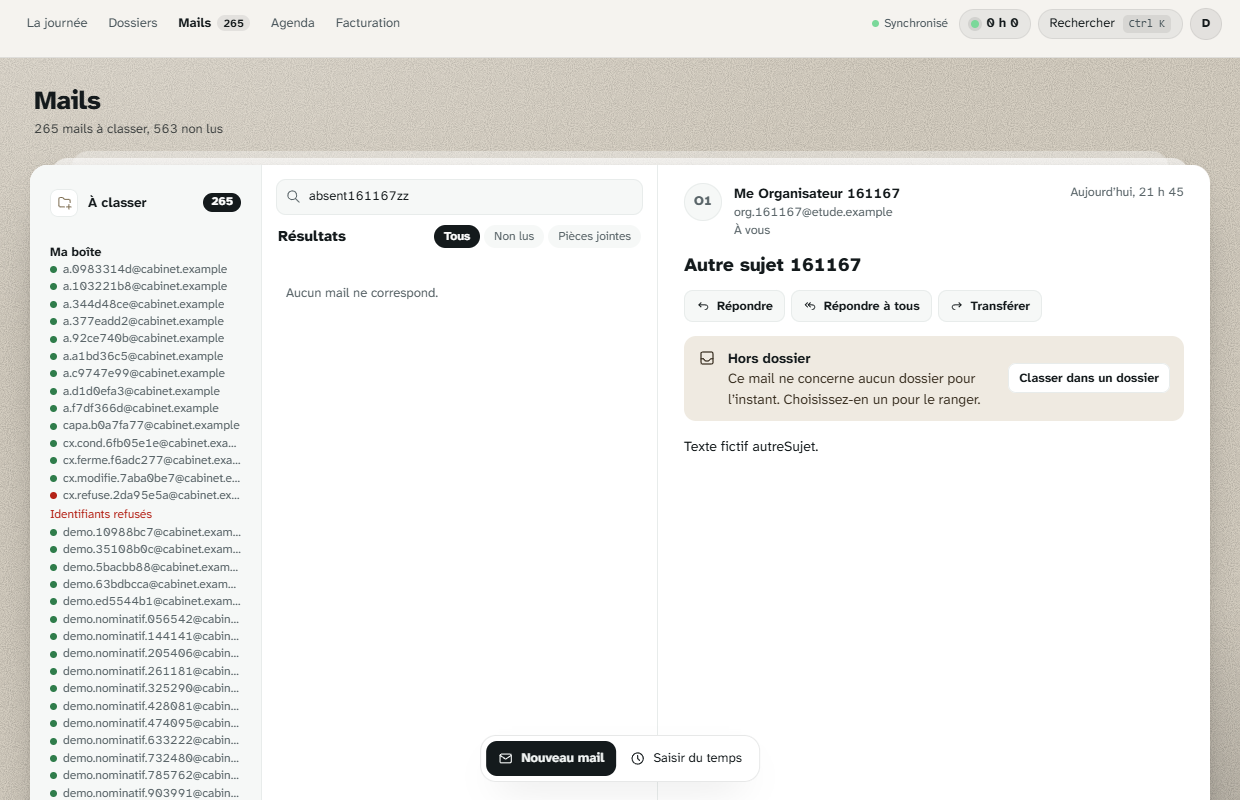
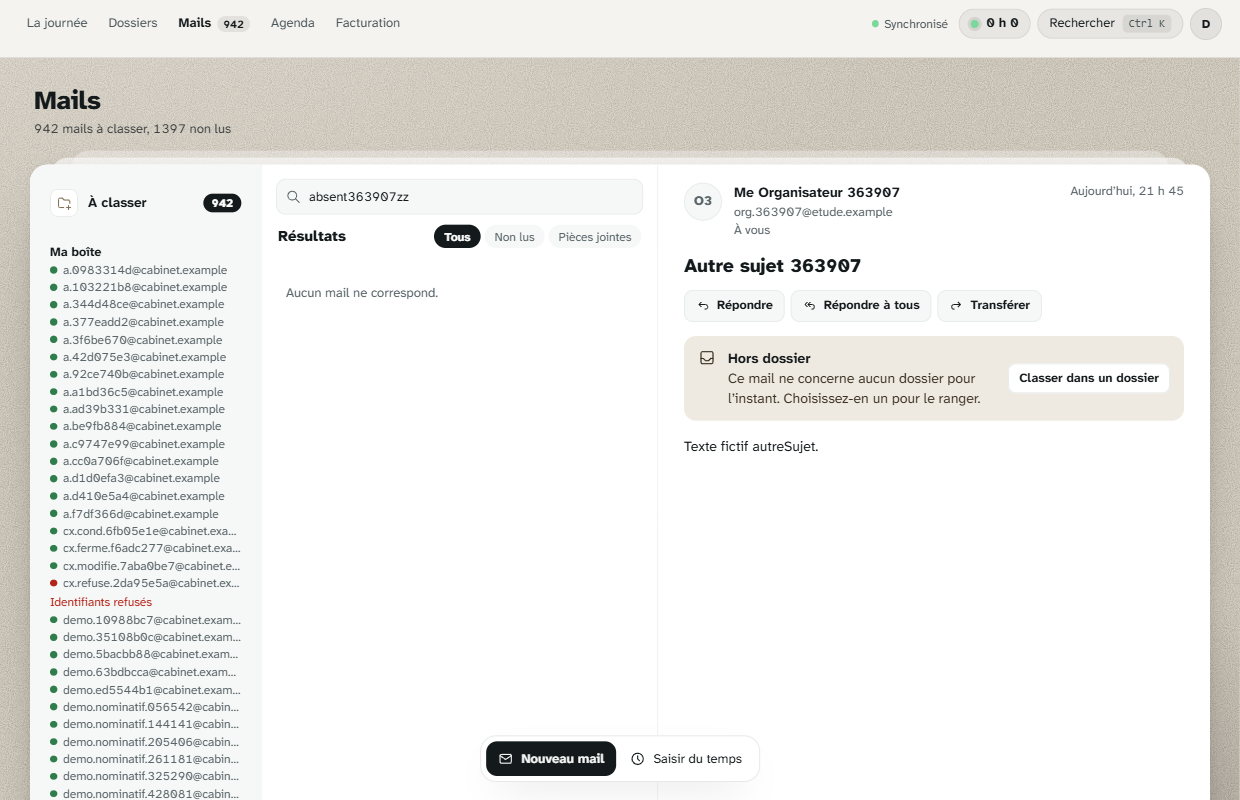
poste: J11 (ii) date d'en-tête affichée et utilisée pour le tri du chrono
- date_entete déclarée dans le schéma local ; lue par la liste, triée par COALESCE(date_entete, cree_le)
- dateDuMail : tri, groupes par jour, liste, lecture, citation de réponse et complétion ; la date d'arrivée reste distincte
- tests node:test (repli, tri d'un vieux courrier relevé à l'instant, groupes) ; recette j11-mails-ecran étendue avec essais négatifs

diff --git a/apps/poste/src/messagerie/listeMails.test.ts b/apps/poste/src/messagerie/listeMails.test.ts
@@ -2,6 +2,7 @@ import assert from "node:assert/strict";
 import { describe, it } from "node:test";
 import {
   apercuMail,
+  dateDuMail,
   ecartEnJours,
   extensionPiece,
   filtrerMails,
@@ -172,5 +173,33 @@ describe("filtres, pièces et aperçu", () => {
   it("paragraphes séparés par une ligne vide", () => {
     assert.deepEqual(paragraphes("Maître,\r\n\r\nPremier.\n\n\n\nSecond.\nSuite."), ["Maître,", "Premier.", "Second.\nSuite."]);
     assert.deepEqual(paragraphes("   "), []);
+  });
+});
+
+describe("date d'en-tête et date d'arrivée", () => {
+  it("la date d'en-tête prime, la date d'arrivée sert de repli", () => {
+    assert.equal(dateDuMail({ date_entete: "2026-10-01 08:00:00+00", cree_le: "2026-10-09 07:00:00+00" }), "2026-10-01 08:00:00+00");
+    assert.equal(dateDuMail({ date_entete: null, cree_le: "2026-10-09 07:00:00+00" }), "2026-10-09 07:00:00+00");
+    assert.equal(dateDuMail({ date_entete: "  ", cree_le: "2026-10-09 07:00:00+00" }), "2026-10-09 07:00:00+00");
+    assert.equal(dateDuMail({}), null);
+  });
+
+  it("le tri suit la date d'en-tête, pas l'ordre d'arrivée (relève d'un ancien courrier)", () => {
+    // Arrivé aujourd'hui sur le serveur, mais écrit il y a trois semaines.
+    const ancien = mail("ancien", "2026-10-09 07:00:00+00", { date_entete: "2026-09-18 09:00:00+00" });
+    const recent = mail("recent", "2026-10-08 07:00:00+00", { date_entete: "2026-10-08 06:30:00+00" });
+    const sansEntete = mail("sans", "2026-10-02 07:00:00+00");
+    assert.deepEqual(
+      trierParDate([ancien, sansEntete, recent]).map((m) => m.id),
+      ["recent", "sans", "ancien"],
+    );
+  });
+
+  it("les groupes par jour suivent la date d'en-tête ; la date d'arrivée reste intacte", () => {
+    const ancien = mail("ancien", "2026-10-09 07:00:00+00", { date_entete: "2026-08-14 09:00:00+00" });
+    const groupes = groupesParJour([ancien], MAINTENANT);
+    assert.equal(groupes.length, 1);
+    assert.notEqual(groupes[0]?.cle, "aujourdhui");
+    assert.equal(groupes[0]?.mails[0]?.cree_le, "2026-10-09 07:00:00+00");
   });
 });

diff --git a/apps/poste/src/messagerie/listeMails.ts b/apps/poste/src/messagerie/listeMails.ts
@@ -35,6 +35,12 @@ export function normaliserHorodatage(valeur: string): string {
   return `${date}T${heure}${signe}${hh}:${mm}`;
 }
 
+/** Date d'un mail à l'écran et pour le tri : celle de son en-tête, à défaut sa date d'arrivée. */
+export function dateDuMail(mail: Pick<MailLocal, "date_entete" | "cree_le">): string | null {
+  const entete = mail.date_entete?.trim();
+  return entete !== undefined && entete !== "" ? entete : (mail.cree_le ?? null);
+}
+
 /** Jour et heure murale (Europe/Paris) d'un horodatage de mail ; `null` s'il est illisible. */
 export function muralMail(valeur: string | null | undefined): MurMail | null {
   if (valeur === null || valeur === undefined) return null;
@@ -53,7 +59,7 @@ function rangMail(valeur: string | null | undefined): number {
 /** Du plus récent au plus ancien ; à égalité, l'ordre d'origine est conservé. */
 export function trierParDate(mails: readonly MailLocal[]): MailLocal[] {
   return mails
-    .map((mail, index) => ({ mail, index, rang: rangMail(mail.cree_le) }))
+    .map((mail, index) => ({ mail, index, rang: rangMail(dateDuMail(mail)) }))
     .sort((a, b) => b.rang - a.rang || a.index - b.index)
     .map((entree) => entree.mail);
 }
@@ -107,7 +113,7 @@ export function groupesParJour(mails: readonly MailLocal[], maintenant: Date): G
   const aujourdhui = jourParis(maintenant);
   const groupes: GroupeJour[] = [];
   for (const mail of trierParDate(mails)) {
-    const mur = muralMail(mail.cree_le);
+    const mur = muralMail(dateDuMail(mail));
     const { cle, titre } = mur === null ? { cle: "sans-date", titre: "Sans date" } : groupeDe(mur.jour, aujourdhui);
     const dernier = groupes[groupes.length - 1];
     if (dernier?.cle === cle) {

diff --git a/apps/poste/src/messagerie/completion.ts b/apps/poste/src/messagerie/completion.ts
@@ -1,5 +1,6 @@
 import { adresseValide, type Destinataire } from "@/messagerie/adressesRedaction";
 import { analyserCorrespondant, separerDestinataires } from "@/messagerie/expediteurs";
+import { dateDuMail } from "@/messagerie/listeMails";
 import type { MailLocal } from "@/messagerie/typesMails";
 
 /**
@@ -25,13 +26,13 @@ function correspond(suggestion: Destinataire, saisie: string): boolean {
 /** Adresses des expéditeurs et destinataires des mails de la base locale qui contiennent la saisie, les plus récentes d'abord. */
 export function suggestionsLocales(
   saisie: string,
-  mails: readonly Pick<MailLocal, "expediteur" | "destinataires_texte" | "cree_le">[],
+  mails: readonly Pick<MailLocal, "expediteur" | "destinataires_texte" | "date_entete" | "cree_le">[],
   adressesPropres: readonly string[],
 ): SuggestionDestinataire[] {
   if (Array.from(saisie.trim()).length < SAISIE_MIN) return [];
   const propres = new Set(adressesPropres.map(cle));
   const vues = new Map<string, SuggestionDestinataire>();
-  const recents = [...mails].sort((a, b) => (b.cree_le ?? "").localeCompare(a.cree_le ?? ""));
+  const recents = [...mails].sort((a, b) => (dateDuMail(b) ?? "").localeCompare(dateDuMail(a) ?? ""));
   for (const mail of recents) {
     const bruts = [mail.expediteur ?? "", ...separerDestinataires(mail.destinataires_texte)];
     for (const brut of bruts) {

diff --git a/apps/poste/src/messagerie/EcranMails.tsx b/apps/poste/src/messagerie/EcranMails.tsx
@@ -44,7 +44,7 @@ import {
   type SuggestionTempsMail,
 } from "@/messagerie/LectureMail";
 import { PanneauListe } from "@/messagerie/PanneauListe";
-import { filtrerMails, groupesParJour, listePieces, trierParDate, type FiltreListe } from "@/messagerie/listeMails";
+import { dateDuMail, filtrerMails, groupesParJour, listePieces, trierParDate, type FiltreListe } from "@/messagerie/listeMails";
 import { RailMails, type VueMails } from "@/messagerie/RailMails";
 import { analyserCorrespondant } from "@/messagerie/expediteurs";
 import { libelleReleve } from "@/messagerie/releve";
@@ -407,7 +407,7 @@ export function EcranMails({
           objet: mail.objet,
           expediteur: mail.expediteur,
           destinataires_texte: mail.destinataires_texte ?? null,
-          cree_le: mail.cree_le ?? null,
+          cree_le: dateDuMail(mail),
           texte: await texteDuMessage(mail),
           pieces: listePieces(mail),
         };

diff --git a/apps/poste/src/messagerie/PanneauListe.tsx b/apps/poste/src/messagerie/PanneauListe.tsx
@@ -5,6 +5,7 @@ import type { DossierClassement } from "@/messagerie/classement";
 import { analyserCorrespondant, monogramme, nomAffiche } from "@/messagerie/expediteurs";
 import {
   apercuMail,
+  dateDuMail,
   horodatageListe,
   listePieces,
   type FiltreListe,
@@ -163,7 +164,7 @@ function LigneMail({ mail, choisie, onSelection, dossiers, classeLocal, maintena
       <span className="mails-ligne__droite">
         <span className="mails-ligne__quand">
           {pieces ? <IconPaperclip stroke={1.6} aria-label={fr("Pièce jointe")} role="img" /> : null}
-          {horodatageListe(mail.cree_le, maintenant)}
+          {horodatageListe(dateDuMail(mail), maintenant)}
           {lu ? null : <span className="mails-nonlu" role="img" aria-label={fr("Non lu")} />}
         </span>
         {dossier ? (

diff --git a/apps/poste/src/messagerie/donneesMails.ts b/apps/poste/src/messagerie/donneesMails.ts
@@ -26,8 +26,8 @@ export async function lireDonneesMails(database: CommonPowerSyncDatabase): Promi
     database.getAll<MailLocal>(
       `SELECT id, message_id, objet, expediteur, destinataires_texte, pieces_texte, extrait_texte,
               substr(texte_brut, 1, 240) AS debut_texte, etat_classement, dossier_id,
-              suggestion_dossier_id, titulaire_id, lu, dossier_imap, cree_le
-       FROM messages ORDER BY cree_le DESC`,
+              suggestion_dossier_id, titulaire_id, lu, dossier_imap, date_entete, cree_le
+       FROM messages ORDER BY COALESCE(date_entete, cree_le) DESC`,
     ),
     database.getAll<DossierLocal>("SELECT id, nom, chemise, reference FROM dossiers"),
     lireInvitations(database),

diff --git a/apps/poste/src/messagerie/LectureMail.tsx b/apps/poste/src/messagerie/LectureMail.tsx
@@ -23,6 +23,7 @@ import {
 } from "@/messagerie/expediteurs";
 import { presenterInvitation } from "@/messagerie/invitations";
 import {
+  dateDuMail,
   extensionPiece,
   horodatageLecture,
   listePieces,
@@ -121,7 +122,7 @@ export function LectureMail({
           <span data-testid="lecture-destinataires">{fr(destinataires === "" ? "—" : `À ${destinataires}`)}</span>
         </div>
         <span className="mails-lecture__quand" data-testid="lecture-date">
-          {fr(horodatageLecture(mail.cree_le, maintenant) || "—")}
+          {fr(horodatageLecture(dateDuMail(mail), maintenant) || "—")}
         </span>
       </div>
 

diff --git a/apps/poste/src/sync/AppSchema.ts b/apps/poste/src/sync/AppSchema.ts
@@ -348,6 +348,9 @@ const messages = new Table(
     arrivee_seq: column.integer,
     /** Vrai seulement pour un message arrivé après la première relève de sa boîte et encore non lu à l'arrivée. */
     arrivee_notifiable: column.integer,
+    /** Date de l'en-tête `Date` du message (bornée côté serveur), nulle quand l'en-tête manque ou est illisible. */
+    date_entete: column.text,
+    /** Date d'arrivée sur le serveur : distincte de la date d'en-tête, jamais affichée à sa place. */
     cree_le: column.text,
   },
   { indexes: { dossier: ["dossier_id"], etat: ["etat_classement"], titulaire: ["titulaire_id"] } },

diff --git a/apps/poste/src/messagerie/typesMails.ts b/apps/poste/src/messagerie/typesMails.ts
@@ -33,6 +33,9 @@ export type MailLocal = {
   titulaire_id?: string | null;
   lu?: number | boolean | null;
   dossier_imap?: string | null;
+  /** Date de l'en-tête du message : celle qu'on affiche et qui sert au tri. */
+  date_entete?: string | null;
+  /** Date d'arrivée sur le serveur : repli quand l'en-tête manque, sans plus. */
   cree_le?: string | null;
   /** Brouillon de la base locale présenté dans la liste ; la sélection rouvre la rédaction. */
   brouillon?: boolean;

diff --git a/JOURNAL.md b/JOURNAL.md
@@ -944,3 +944,5 @@ Commit `7651129` (plan:) : critères (i) à (v) ajoutés à J11, condition « ca
 2026-10-17 — Preuves finales (image API finale, verrou par message) : j11-boites-actions 3 passages verts, j11-redaction-api, j11-boites, s7-classement, s5-sync-streams, encodage-texte, migrations-additives verts ; cargo fmt --all --check exit 0 ; cargo clippy --workspace --all-targets -D warnings exit 0 ; cargo test --workspace --no-fail-fast (env de ci.yml, CARGO_BUILD_JOBS=6) exit 0, 31 binaires ok, 0 échec, dont actions_integration, brouillons_integration (403), invitations_integration, actions_dovecot (13), pas_d_expunge. Commit de (iii) actions sur les messages et (iv) recherche serveur, sans .claude/settings.json.
 2026-10-17 — a555004 poussé ((iii) actions, (iv) recherche) ; CI 39062280220 lancée.
 2026-10-17 — CI 39062280220 (a555004) VERTE : perimetre, frontend, gouvernance, webdriver-macos, facturx, rust, s1-instance. Reste J11 : poste ((i) sélecteur « De », (ii) date d'en-tête, (iii)-(iv) actions et recherche à l'écran, (v) connexion des boîtes et santé), cause des échecs intermittents de relève, contrôleur, CI.
+2026-10-17 — (ii) date d'en-tête côté poste : date_entete déclarée dans AppSchema, lue par donneesMails (tri COALESCE(date_entete, cree_le)), fonction dateDuMail utilisée par tri, groupes, liste, lecture, citation et complétion ; 3 tests node:test (j11-mails-logique 284 verts, lint:ci et tsc verts) ; j11-mails-ecran étendue (mail relevé à l'instant, daté de 20 jours, essais négatifs). Lancement de j11-mails-ecran (app Tauri, compilation avec CARGO_BUILD_JOBS=6).
+2026-10-17 — (ii) prouvé : node tests/recette/j11-mails-ecran.mjs exit 0 (0 FAIL, 0 relance de lancement) avec le courrier relevé à l'instant et daté de 20 jours : hors « Aujourd'hui », classé après l'ancien de 10 jours, date courte affichée, date_entete et cree_le distinctes dans SQLite local (écart d'environ 20 jours), message sans en-tête : date_entete nulle. Captures poste-reel-* régénérées. Commit.
